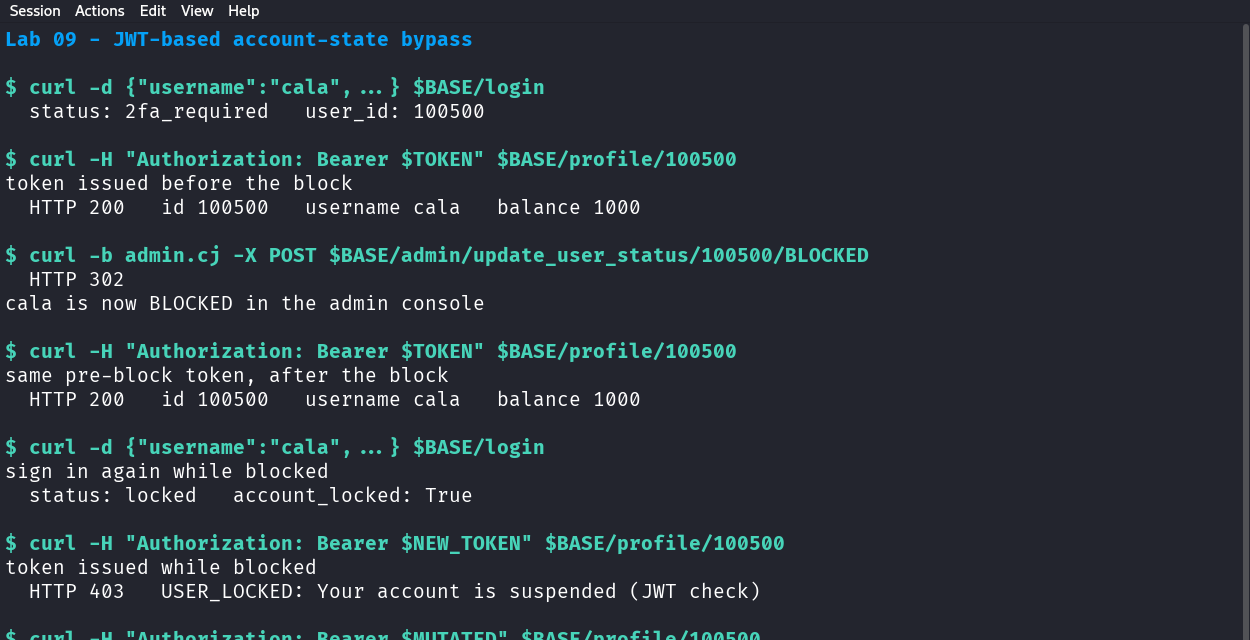
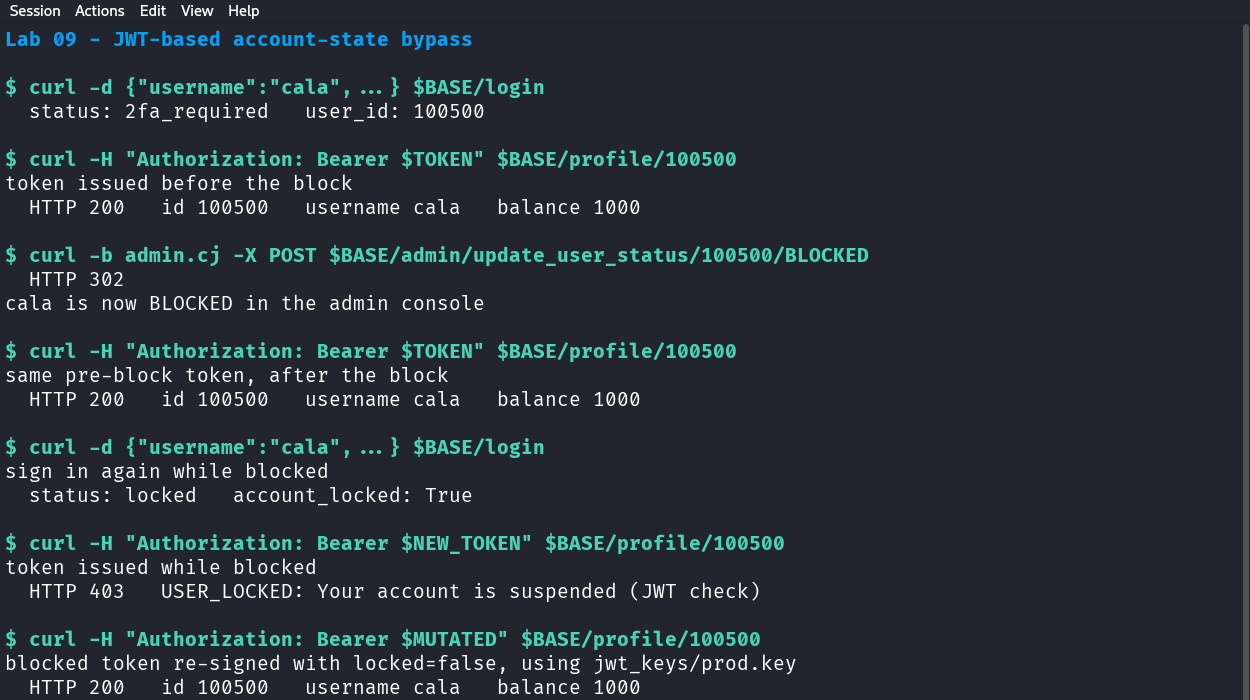
Update catalog and readiness status after pilots

Changed region(s): [[0.0, 0.2188, 0.7176, 1.0], [0.0, 0.0, 0.4368, 0.1875]]

diff --git a/docs/coverage-analysis.md b/docs/coverage-analysis.md
@@ -8,7 +8,9 @@
 
 Devom is the stronger foundation for the selected backend and API scenarios: its server source contains direct candidates for seven modules. BugBazaar is the stronger candidate for Android components and local runtime manipulation. The remaining cloud database module is blocked until a separately authorized, isolated cloud database or emulator is supplied and the application integration is verified.
 
-**None of the ten guides is ready for production delivery without a pilot.** The current guides are challenge briefs, not fully tested step-by-step labs: they lack verified device setup, expected outputs, instructor preparations, time estimates, reproducible reset procedures and answer keys. Module 27 is not runnable on the material currently available. Modules 29–30 have concrete source candidates, but build and runtime prerequisites are unverified.
+**Pilot status (29 October 2026):** The seven Devom labs (09, 10, 14, 24, 25, 26, 28) and Lab 29 have since been run end to end in isolated environments, and their guides now include observed output and screenshots. Lab 30's Frida hook ran, but the same-PIN before/after comparison remains incomplete. Lab 27 remains blocked. The assessment below records the original static review and is kept for traceability; each lab page now states what its pilot actually observed.
+
+**None of the ten guides was ready for production delivery at the time of this static review.** The guides were challenge briefs, not fully tested step-by-step labs: they lacked verified device setup, expected outputs, instructor preparations, time estimates, reproducible reset procedures and answer keys. Module 27 is not runnable on the material currently available. Modules 29–30 had concrete source candidates, but their build and runtime prerequisites were unverified; Lab 29 has since been piloted, and Lab 30 is partly piloted.
 
 ## Sources and versions
 
@@ -90,7 +92,7 @@ Devom is the stronger foundation for the selected backend and API scenarios: its
 2. **Persistence and separation:** Compose bind-mounts database, uploaded files, keys and templates and names the container `dvom-lab-v1`. Shared instances can collide or leak changes across participants. Provide separate disposable environments or controlled unique copies and cleanup; do not delete existing user data.
 3. **Encryption affects observation:** Devom's middleware accepts JSON and normally encrypts JSON responses, except when the User-Agent contains `Postman` or the path is exempt. App traffic may need separate handling. API-only exercises do not, by themselves, prove an Android client was tested.
 4. **Prebuilt APK and network risk:** use the hash-verified BugBazaar release APK instead of building from source for learner setup. The app requests sensitive permissions and includes Firebase/external SDKs; use a disposable emulator with synthetic data and keep it offline where the lab requires.
-5. **Tooling here:** on this host, `git` and `java` were detected, while Docker and ADB were not found. Python 3.14 is installed but Flask and `Crypto` were not detected; Devom's Dockerfile instead specifies Python 3.12. These observations do not establish the state of a future training host.
+5. **Tooling here:** at the time of the static review, `git` and `java` were detected, while Docker and ADB were not found. Python 3.14 is installed but Flask and `Crypto` were not detected; Devom's Dockerfile instead specifies Python 3.12. The later pilots used a loopback Python 3.14/Flask 3.1.3 backend and ADB against an Android 14 emulator, without Docker. These observations do not establish the state of a future training host.
 6. **Dependency and license risk:** Devom's Python dependencies are unpinned. The README describes a custom educational license but points to a LICENSE file not visible in the root listing; BugBazaar's repository tree did not show an obvious LICENSE file in the inspected tree. Confirm usage and redistribution rights with the owners before training or packaging; absence of a file is not permission.
 
 ## Recommended preparation and acceptance gates
@@ -103,4 +105,4 @@ Devom is the stronger foundation for the selected backend and API scenarios: its
 
 ## What remains unknown
 
-Devom manual-backend compatibility and app trust of its ad-hoc certificate; BugBazaar behavior outside the Android 14/API 34 pilot; availability of an approved instrumentable emulator; successful reproduction of each scenario; ownership and configuration of a cloud database; exact participant count, lab isolation model, training duration, and instructor infrastructure. These require actual deployment or stakeholder decisions and are not resolved by static source review.
+Devom manual-backend compatibility and app trust of its ad-hoc certificate; BugBazaar behavior outside the Android 14/API 34 pilot; availability of an approved instrumentable emulator; the same-PIN before/after comparison in Lab 30; ownership and configuration of a cloud database; exact participant count, lab isolation model, training duration, and instructor infrastructure. These require actual deployment or stakeholder decisions and are not resolved by static source review.

diff --git a/docs/index.md b/docs/index.md
@@ -21,7 +21,7 @@ Guides for testing Android applications and APIs in an isolated lab.
 </div>
 
 <div class="catalog-notice" markdown="1">
-**Before you start:** These guides have not all been runtime-tested. An instructor should pilot each exercise. Use only an isolated, authorized environment with synthetic data. [Review the common prerequisites](00-common-setup.md), then follow the setup module for the target used by your lab.
+**Before you start:** Seven Devom labs (09, 10, 14, 24, 25, 26, 28) and the Android components lab (29) are piloted, with observed results and screenshots on each page. Lab 30's hook ran, but its same-PIN comparison is incomplete. Lab 27 is blocked until an authorized cloud environment exists. Use only an isolated, authorized environment with synthetic data. [Review the common prerequisites](00-common-setup.md), then follow the setup module for the target used by your lab.
 </div>
 
 ## Lab catalog
@@ -48,11 +48,11 @@ Test account state and second-factor checks.
 <div class="grid cards auth-cards" markdown>
 
 - **09 · [JWT account state](09-jwt-account-state.md)**  
-  <span class="card-meta">Devom · Awaiting pilot</span><br>
+  <span class="card-meta">Devom · Piloted 29 Oct 2026</span><br>
   Check how a suspended account's session is handled.
 
 - **10 · [OTP authentication](10-otp-bypass.md)**  
-  <span class="card-meta">Devom · Awaiting pilot</span><br>
+  <span class="card-meta">Devom · Piloted 29 Oct 2026</span><br>
   Trace token issuance and second-factor verification.
 
 </div>
@@ -70,15 +70,15 @@ Investigate upload processing and file retrieval.
 <div class="grid cards file-cards" markdown>
 
 - **14 · [Command injection](14-command-injection.md)**  
-  <span class="card-meta">Devom · Awaiting pilot</span><br>
+  <span class="card-meta">Devom · Piloted 29 Oct 2026</span><br>
   Follow a filename into server-side processing.
 
 - **24 · [File upload](24-file-upload.md)**  
-  <span class="card-meta">Devom · Awaiting pilot</span><br>
+  <span class="card-meta">Devom · Piloted 29 Oct 2026</span><br>
   Test how the application handles an unexpected file type.
 
 - **25 · [Path traversal](25-path-traversal.md)**  
-  <span class="card-meta">Devom · Awaiting pilot</span><br>
+  <span class="card-meta">Devom · Piloted 29 Oct 2026</span><br>
   Check a retrieval boundary using a harmless marker.
 
 </div>
@@ -96,7 +96,7 @@ Examine transactions, object access, and database permissions.
 <div class="grid cards api-cards" markdown>
 
 - **26 · [Transaction validation](26-transactions.md)**  
-  <span class="card-meta">Devom · Awaiting pilot</span><br>
+  <span class="card-meta">Devom · Piloted 29 Oct 2026</span><br>
   Compare the results of valid and invalid transfers.
 
 - **27 · [Cloud database](27-cloud-database.md)**  
@@ -104,7 +104,7 @@ Examine transactions, object access, and database permissions.
   Requires an authorized, disposable cloud environment.
 
 - **28 · [Object authorization](28-bola.md)**  
-  <span class="card-meta">Devom · Awaiting pilot</span><br>
+  <span class="card-meta">Devom · Piloted 29 Oct 2026</span><br>
   Test access between two assigned lab accounts.
 
 </div>
@@ -122,11 +122,11 @@ Inspect app components and client-side decisions.
 <div class="grid cards android-cards" markdown>
 
 - **29 · [Android components](29-components.md)**  
-  <span class="card-meta">BugBazaar · Awaiting pilot</span><br>
+  <span class="card-meta">BugBazaar · Piloted 29 Oct 2026</span><br>
   Test access to an exported component.
 
 - **30 · [Runtime bypass](30-runtime-bypass.md)**  
-  <span class="card-meta">BugBazaar · Awaiting pilot</span><br>
+  <span class="card-meta">BugBazaar · Partial pilot</span><br>
   Inspect a local passcode check at runtime.
 
 </div>

diff --git a/lab-expansion-plan.md b/lab-expansion-plan.md
@@ -13,7 +13,9 @@
 
 ## Tasks
 
-- [ ] Document the agreed reusable lab structure: overview, prerequisites, scenario, guided stages, hints, evidence, cleanup, and review.
-- [ ] Expand Devom labs 9, 10, 14, 24, 25, 26 and 28 with source-backed steps, expected observations clearly labeled as unverified, and lab-specific cleanup.
-- [ ] Expand BugBazaar labs 29 and 30 using inspected source, and retain module 27 as blocked until the cloud environment exists.
-- [ ] Check all guides for coverage, source fidelity, safety, working links, and consistency; run the MkDocs site test. Report which walkthroughs remain unpiloted.
+**Status (29 October 2026):** Tasks 1–3 are complete. Task 4 was checked as part of the pilots: internal links and images resolve, the strict MkDocs build and site tests pass in CI, and the pages state their status. Lab 27 remains blocked and Lab 30 remains partly piloted.
+
+- [x] Document the agreed reusable lab structure: overview, prerequisites, scenario, guided stages, hints, evidence, cleanup, and review.
+- [x] Expand Devom labs 9, 10, 14, 24, 25, 26 and 28 with source-backed steps, expected observations, and lab-specific cleanup; replace unverified expectations with observed results after each pilot.
+- [x] Expand BugBazaar labs 29 and 30 using inspected source, and retain module 27 as blocked until the cloud environment exists.
+- [x] Check all guides for coverage, source fidelity, safety, working links, and consistency; run the MkDocs site test. Report which walkthroughs remain unpiloted.

diff --git a/README.md b/README.md
@@ -27,7 +27,7 @@ python3 -m mkdocs build --strict
 
 ## Lab readiness and safety
 
-The lab walkthroughs have not been runtime-tested. An instructor should pilot each exercise before class. Use only an isolated, authorized environment with synthetic data; do not use production systems, real accounts, personal data, or upstream cloud services. The cloud database lab is blocked until an authorized disposable environment is available.
+Most walkthroughs have been piloted: Labs 09, 10, 14, 24, 25, 26, 28, and 29 were run end to end, and their pages include observed output and screenshots. Lab 30's hook ran, but its same-PIN comparison is incomplete. The cloud database lab (27) is blocked until an authorized disposable environment is available. Use only an isolated, authorized environment with synthetic data; do not use production systems, real accounts, personal data, or upstream cloud services.
 
 ## Lab guides
 
